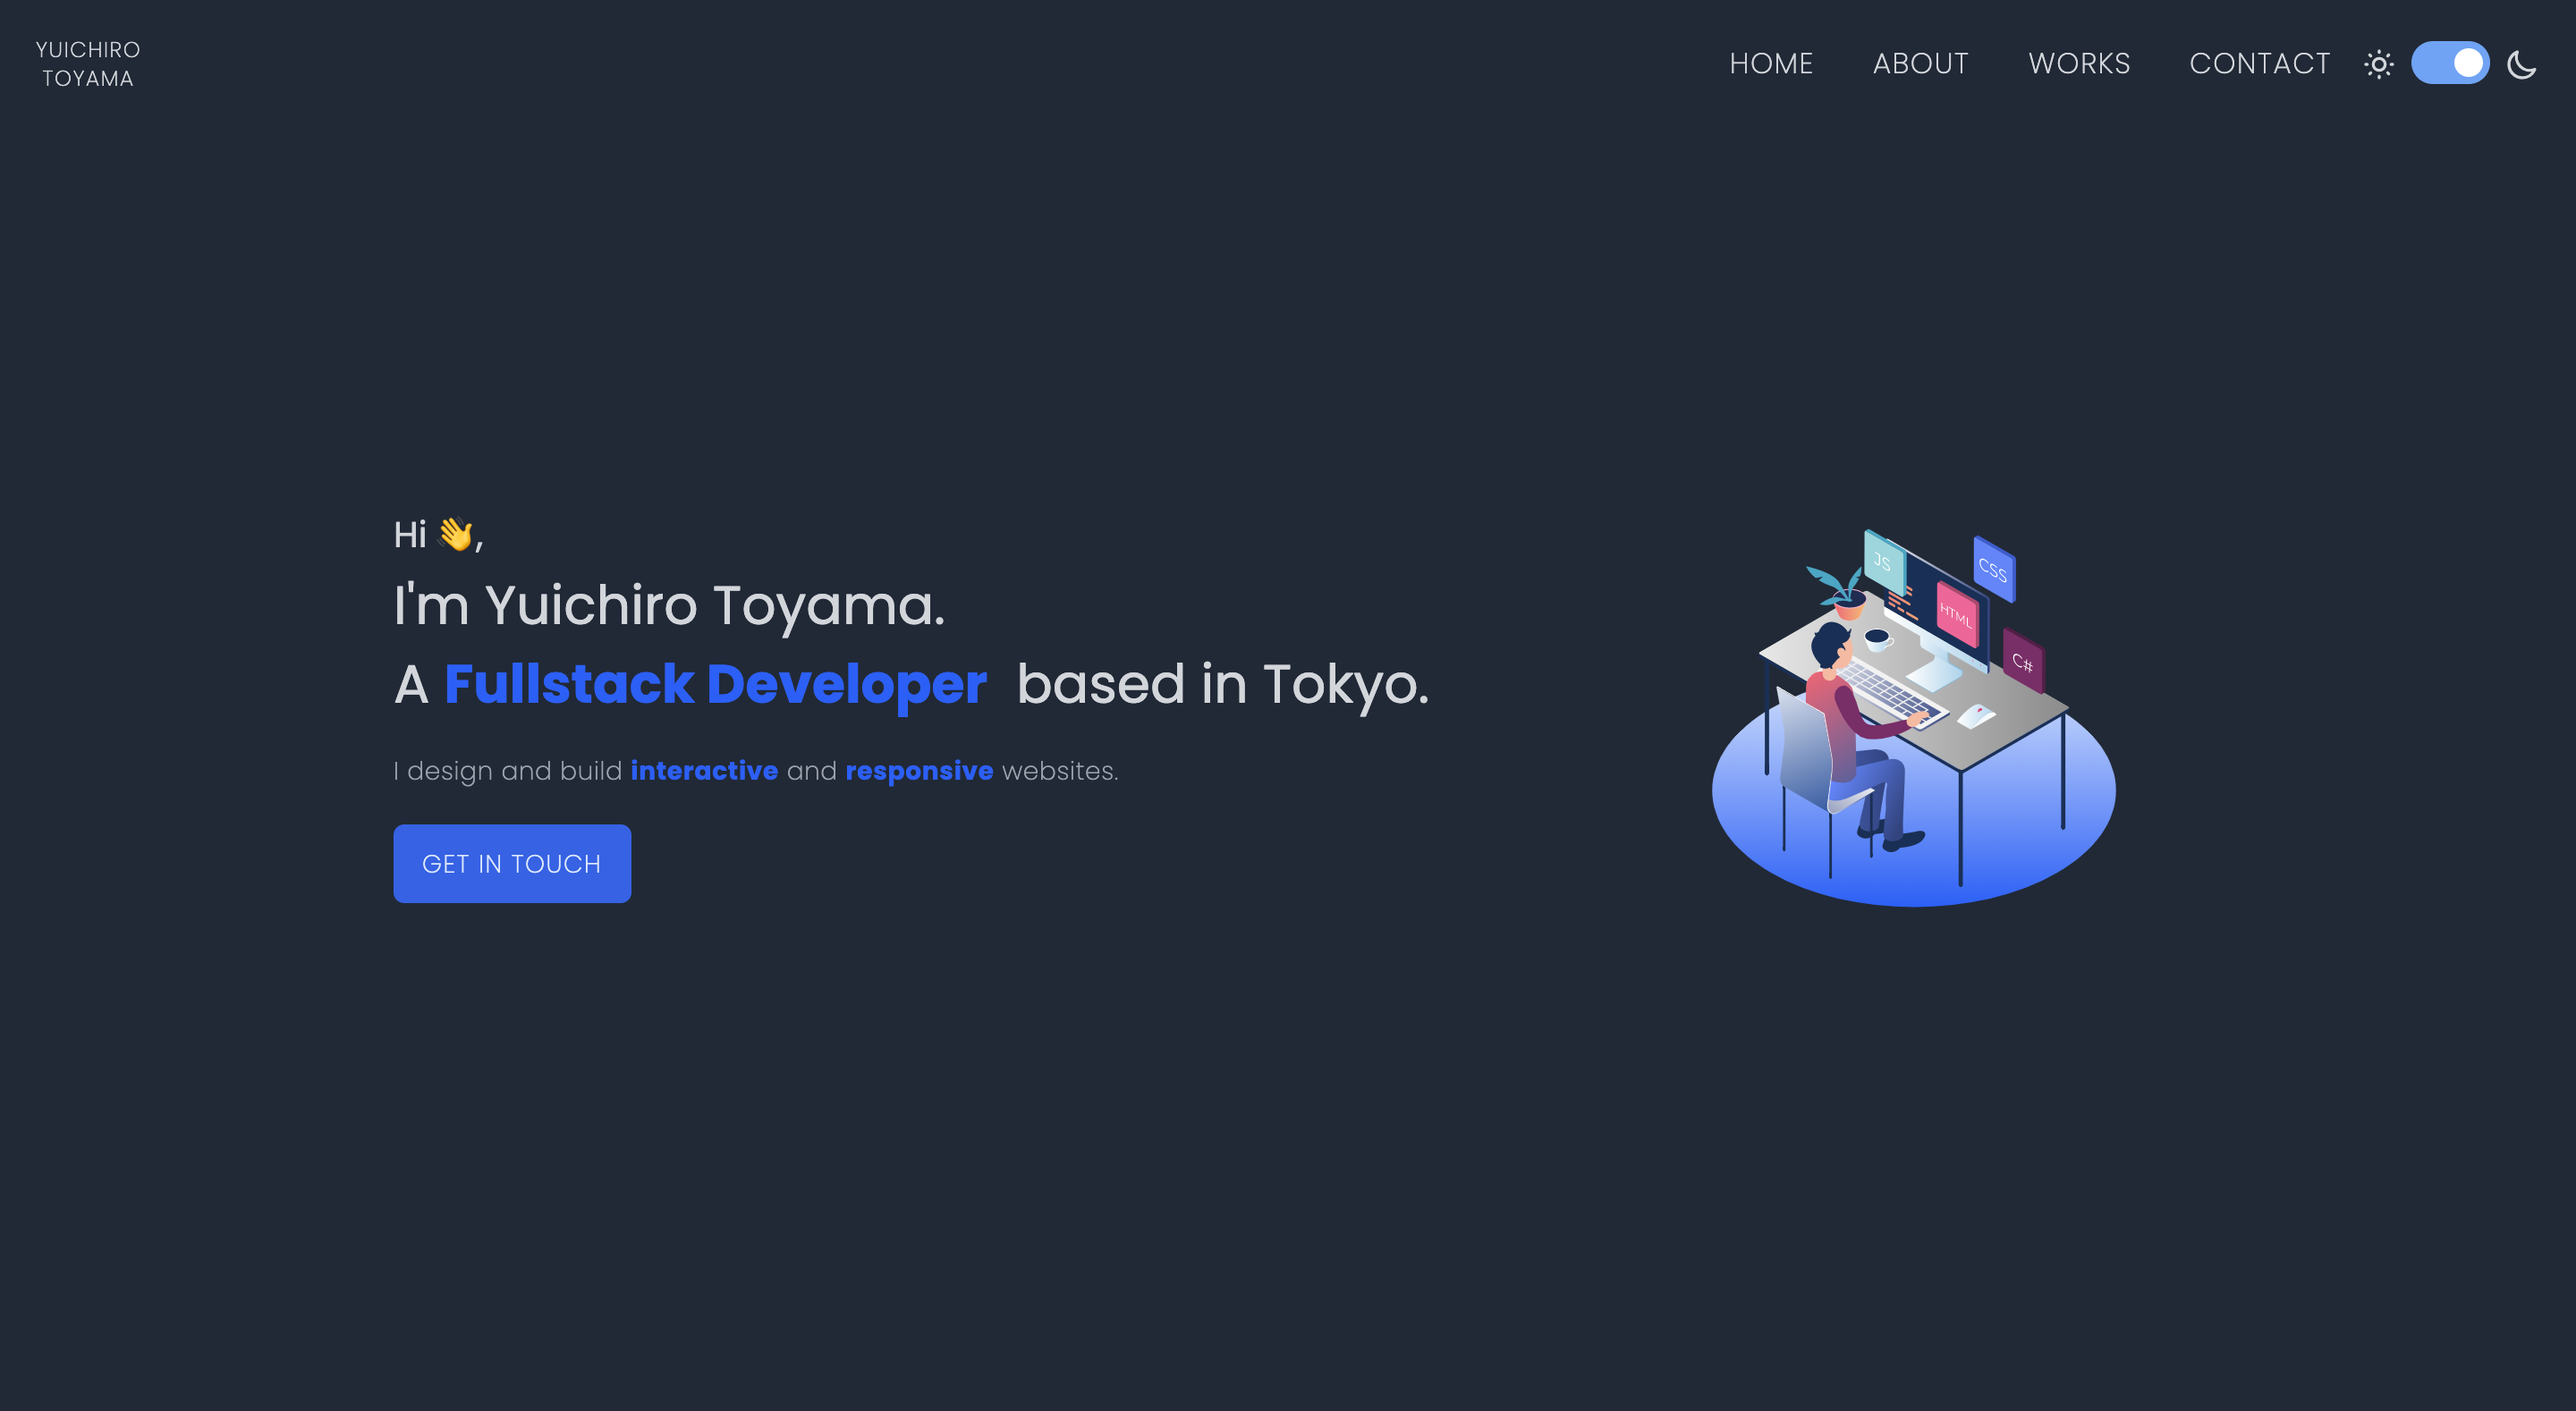
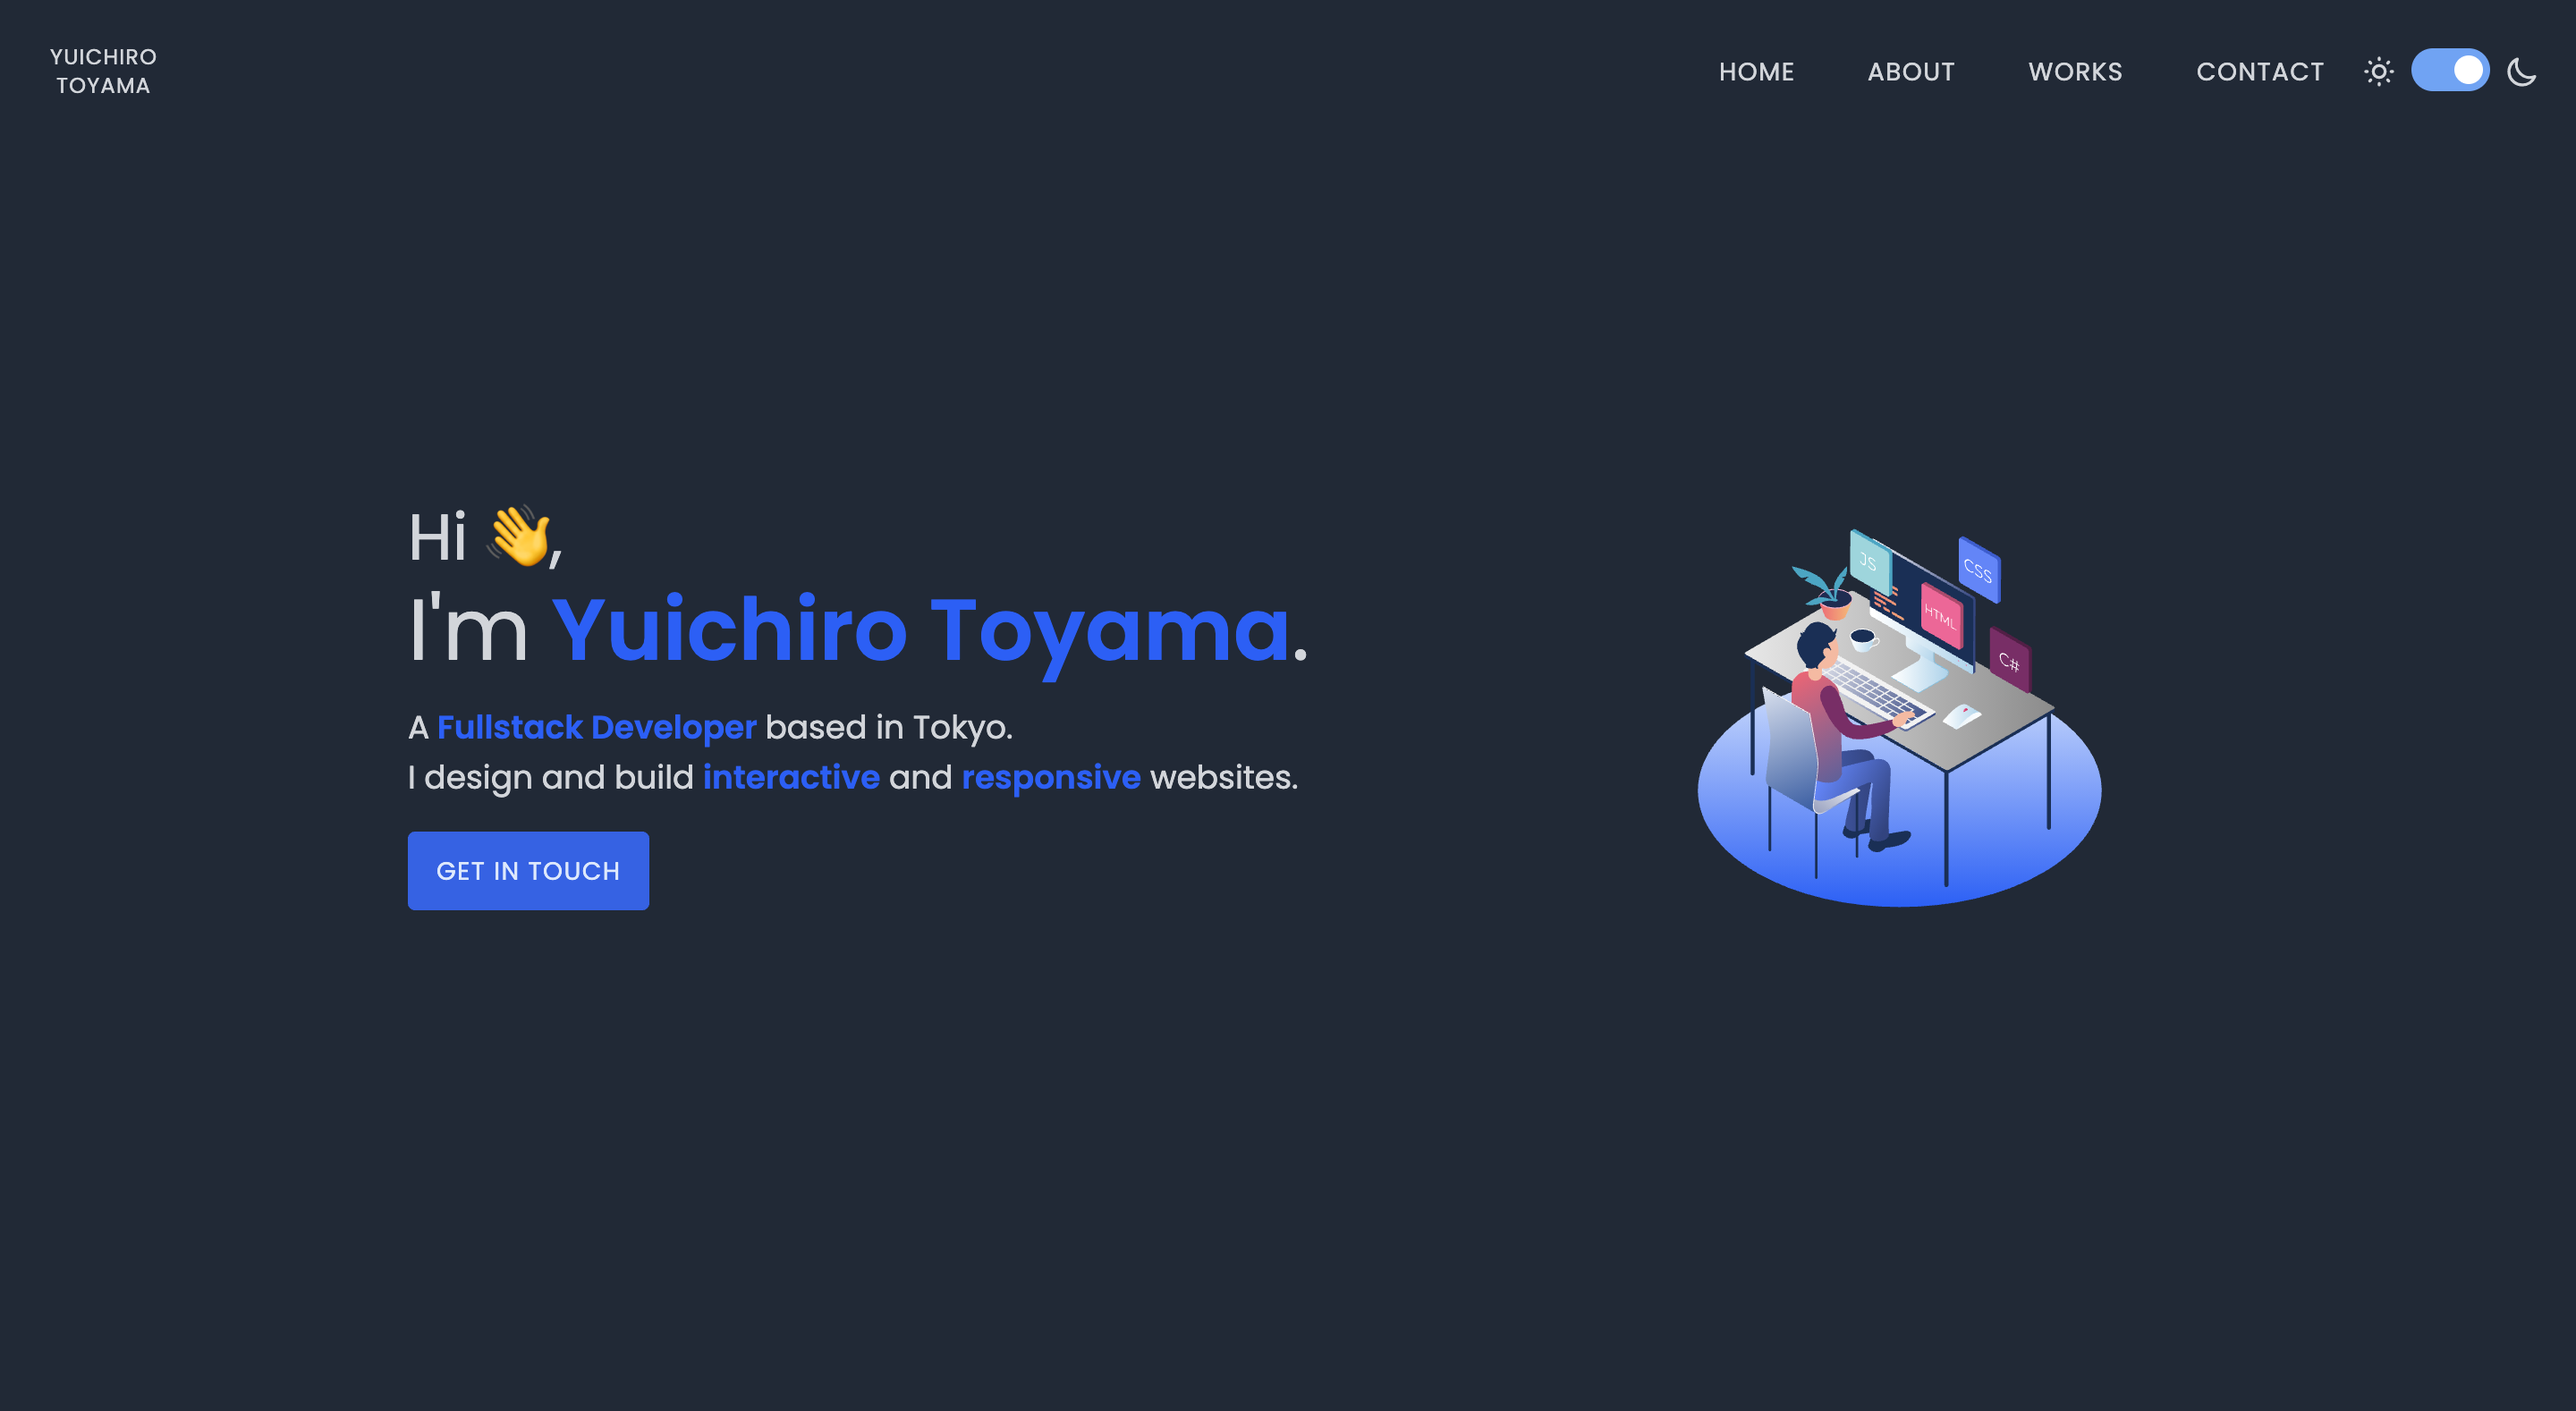
adding carousel and fixing hero section styling

diff --git a/components/ProjectsSection.js b/components/ProjectsSection.js
@@ -1,13 +1,25 @@
 import React from "react";
-import Image from "next/image";
+import Carousel from "./Carousel";
+import { FaGithub, FaExternalLinkAlt } from "react-icons/fa";
+import { IconContext } from "react-icons";
+import { CodeIcon, ExternalLinkIcon } from "@heroicons/react/outline";
+// import { Carousel } from "react-responsive-carousel";
+// import styles from "react-responsive-carousel/lib/styles/carousel.min.css";
 
-function ProjectsSection({ projectName, projectDesc, stack, image }) {
+function ProjectsSection({
+  projectName,
+  projectDesc,
+  stack,
+  images,
+  url,
+  code,
+}) {
   let itemsToRender;
   if (stack) {
     itemsToRender = stack.map((item) => {
       return (
         <p
-          className="text-xs bg-accent dark:bg-gray-800 rounded py-1 px-2 mr-2 mb-1"
+          className="text-xs bg-accent dark:bg-gray-800 rounded py-1 px-2 mr-2 mt-2"
           key={item}
         >
           {item}
@@ -18,17 +30,43 @@ function ProjectsSection({ projectName, projectDesc, stack, image }) {
 
   return (
     <div className="p-4 bg-gray-200 dark:bg-gray-700 rounded mb-6">
-      {/* <Carousel {...{ images }} /> */}
-      <div className="">
-        {/* <Image src={image} layout="fill" objectFit="contain" /> */}
-        <Image src={image} width={400} height={220} layout="responsive" />
-        {/* <img src={image} className=""></img> */}
-      </div>
-      <div className="pt-4 pb-2">
+      <Carousel images={images} />
+      {/* <Carousel>
+        {images.map((image, index) => {
+          <Image src={image} width={800} height={440} layout="responsive" />;
+        })}
+      </Carousel> */}
+      <div className="pb-2 pt-4">
         <h2>{projectName}</h2>
       </div>
       <div className="text-sm leading-6 whitespace-pre-wrap">{projectDesc}</div>
-      <div className="flex mt-3 flex-wrap">{itemsToRender}</div>
+      <div className="flex justify-between">
+        <div className="flex mt-3 flex-wrap">{itemsToRender}</div>
+        {/* <div className="flex mt-3 mb-1 self-end space-x-2">
+          {code !== "" ? (
+            <IconContext.Provider value={{ size: "1.2rem" }}>
+              <FaGithub className="hover:text-primary" />
+            </IconContext.Provider>
+          ) : null}
+          {url !== "" ? (
+            <IconContext.Provider value={{ size: "1.2rem" }}>
+              <FaExternalLinkAlt className="hover:text-primary" />
+            </IconContext.Provider>
+          ) : null}
+        </div> */}
+        <div className="flex mt-3 self-end space-x-2">
+          {code !== "" ? (
+            <a href={code} target="_blank" rel="noopener noreferrer">
+              <CodeIcon className="hover:text-primary w-6" />
+            </a>
+          ) : null}
+          {url !== "" ? (
+            <a href={url} target="_blank" rel="noopener noreferrer">
+              <ExternalLinkIcon className="hover:text-primary w-6" />
+            </a>
+          ) : null}
+        </div>
+      </div>
     </div>
   );
 }

diff --git a/components/Data.js b/components/Data.js
@@ -3,7 +3,9 @@ export const projectObjOne = {
   projectDesc:
     "Project member which built an online platform where businesses can upload documents for language students to translate. I handled the backend feature where the content of an imported pdf document would be evenly distributed across students taking a specific langauge class.",
   stack: ["Ruby", "Rails", "Sass"],
-  image: "/images/livetranslate2.png",
+  images: ["/images/livetranslate2.png", "/images/livetranslate1.png"],
+  url: "",
+  code: "https://github.com/MarcusRapacioli/livetranslate",
 };
 
 export const projectObjTwo = {
@@ -11,7 +13,9 @@ export const projectObjTwo = {
   projectDesc:
     "A website where puppy lovers can spend a day or two with the most adorable puppies from very generous owners. Built in 1 week during the team project section of a coding bootcamp. Scraping the internet for cute puppy pictures was a lot of fun.",
   stack: ["Ruby", "Rails", "Sass"],
-  image: "/images/airpaws1.png",
+  images: ["/images/airpaws1.png", "/images/airpaws3.png"],
+  url: "",
+  code: "https://github.com/MarcusRapacioli/AirPaws",
 };
 
 export const projectObjThree = {
@@ -19,7 +23,9 @@ export const projectObjThree = {
   projectDesc:
     "This portfolio website created using the NEXT.js framework. My first completed portfolio website and first project using React. I also used packages such as Tailwind, GSAP and Sendgrid for the first time in this project.",
   stack: ["Next.js", "Tailwind", "GSAP", "Sendgrid"],
-  image: "/images/portfolio.png",
+  images: ["/images/portfolio.png", "/images/portfolio2.png"],
+  url: "https://yuichirotoyama.com/",
+  code: "https://github.com/yt1872/nextjs-portfolio",
 };
 
 export const projectObjFour = {
@@ -27,7 +33,9 @@ export const projectObjFour = {
   projectDesc:
     "A cross platform system for a Japanese company involved in the automotive industry. I was involved in the full stack for a web application built on the .NET Core framework.",
   stack: ["C#", ".NET Core", "Xamarin", "jQuery", "Typescript", "Stylus"],
-  image: "/images/Private.png",
+  images: ["/images/Private.png"],
+  url: "",
+  code: "",
 };
 
 export const projectObjFive = {
@@ -35,5 +43,7 @@ export const projectObjFive = {
   projectDesc:
     "An IMDb like application to find movies and view relevant information. Metadata provided by TMDb API",
   stack: ["Next.js", "Tailwind"],
-  image: "/images/popcorn.png",
+  images: ["/images/popcorn.png", "/images/popcorn2.png"],
+  url: "https://imdb-clone-seven.vercel.app/",
+  code: "https://github.com/yt1872/nextjs-imdb-clone",
 };

diff --git a/components/Carousel.js b/components/Carousel.js
@@ -1,0 +1,50 @@
+import React, { useState } from "react";
+import Image from "next/image";
+import { ChevronLeftIcon, ChevronRightIcon } from "@heroicons/react/solid";
+
+function Carousel({ images }) {
+  const [current, setCurrent] = useState(0);
+  const length = images.length;
+
+  const nextImage = () => {
+    setCurrent(current === length - 1 ? 0 : current + 1);
+  };
+
+  const previousImage = () => {
+    setCurrent(current === 0 ? length - 1 : current - 1);
+  };
+
+  return (
+    <div className="relative">
+      {length > 1 ? (
+        <ChevronLeftIcon
+          className="w-8 absolute -left-4 top-1/2 -mt-4 z-10 cursor-pointer hover:text-gray-500"
+          onClick={previousImage}
+        />
+      ) : null}
+      {images.map((image, index) => {
+        return (
+          <div
+            className={
+              index === current
+                ? "opacity-1 duration-1000 px-4"
+                : "opacity-0 duration-1000 px-4"
+            }
+          >
+            {index === current && (
+              <Image src={image} width={800} height={440} layout="responsive" />
+            )}
+          </div>
+        );
+      })}
+      {length > 1 ? (
+        <ChevronRightIcon
+          className="w-8 absolute -right-4 top-1/2 -mt-4 z-10 cursor-pointer"
+          onClick={nextImage}
+        />
+      ) : null}
+    </div>
+  );
+}
+
+export default Carousel;

diff --git a/components/Hero.js b/components/Hero.js
@@ -57,9 +57,9 @@ function Hero() {
   return (
     <div
       id="home"
-      className="flex flex-col sm:flex-row sm:items-center h-screen justify-center sm:justify-evenly mx-6 sm:px-6"
+      className="flex flex-col sm:flex-row sm:items-center h-screen justify-center sm:justify-evenly xl:justify-center mx-6 sm:px-6"
     >
-      <div className="flex flex-col sm:justify-center mt-16 md:mt-0">
+      <div className="flex flex-col mx-auto sm:justify-center mt-16 sm:mt-0 xl:mx-0">
         <div
           className="text-2xl md:text-3xl lg:text-4xl mb-2 flex"
           ref={(el) => (textHi = el)}
@@ -95,10 +95,11 @@ function Hero() {
           </a> */}
         </div>
       </div>
-      <div className="flex justify-center" ref={(el) => (imageItem = el)}>
-        <div className="w-full">
-          <Programmer />
-        </div>
+      <div
+        className="w-80 sm:w-1/3 md:w-1/3 mx-auto max-w-xl xl:mx-0"
+        ref={(el) => (imageItem = el)}
+      >
+        <Programmer />
       </div>
     </div>
   );

diff --git a/components/Footer.js b/components/Footer.js
@@ -8,11 +8,21 @@ function Footer() {
         <div class="">© 2021 All Rights Reserved</div>
         <div>Yuichiro Toyama</div>
       </div>
-      <div class="flex text-xl">
-        <a href="https://github.com/yt1872" className="mr-3 cursor-pointer">
+      <div class="flex text-xl space-x-3">
+        <a
+          href="https://github.com/yt1872"
+          target="_blank"
+          rel="noopener noreferrer"
+          className="cursor-pointer"
+        >
           <FaGithub className="hover:text-primary" />
         </a>
-        <a href="https://www.linkedin.com/in/yt1872/">
+        <a
+          href="https://www.linkedin.com/in/yt1872/"
+          target="_blank"
+          rel="noopener noreferrer"
+          className="cursor-pointer"
+        >
           <FaLinkedin className="hover:text-primary" />
         </a>
       </div>

diff --git a/styles/globals.css b/styles/globals.css
@@ -5,6 +5,8 @@
 /* @import url("https://fonts.googleapis.com/css2?family=Open+Sans:wght@300;400;600;700&display=swap"); */
 /* @import url('https://fonts.googleapis.com/css2?family=Raleway:wght@200;400;600&display=swap'); */
 
+/* @import "react-responsive-carousel/lib/styles/carousel.min.css"; */
+
 @layer base {
   body {
     @apply bg-accent dark:bg-gray-800;
